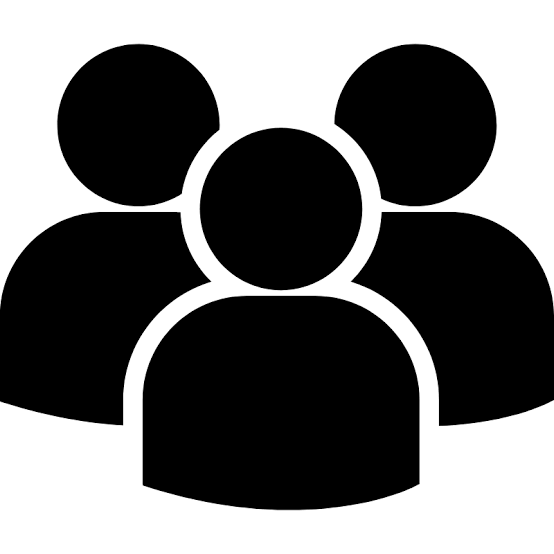
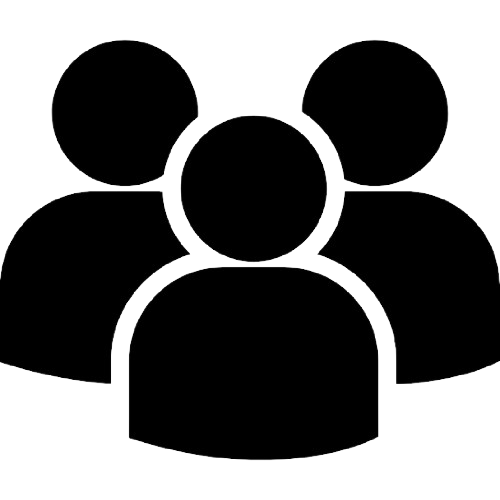
terms images should be in pink color and fix layout

diff --git a/components/home/driveway/TrustPerksBar.tsx b/components/home/driveway/TrustPerksBar.tsx
@@ -26,9 +26,17 @@ const TrustPerksBar = () => {
       <div className="mx-auto max-w-[1480px] px-6 sm:px-12 xl:px-16">
         <div className="grid grid-cols-2 gap-6 lg:grid-cols-4 lg:divide-x lg:divide-slate-200">
           {perks.map((perk, index) => (
-            <div key={index} className="flex items-center space-x-3 lg:px-6 first:lg:pl-0 last:lg:pr-0">
-              <div className="flex h-14 w-14 shrink-0 p-1 items-center justify-center rounded-xl bg-slate-100">
-                <img src={perk.icon}/>
+            <div key={index} className="flex flex-col items-center space-x-3 lg:px-6 first:lg:pl-0 last:lg:pr-0">
+              <div className="flex  h-14 w-14 shrink-0 p-1 items-center justify-center rounded-xl">
+                <img
+                  src={perk.icon}
+                  alt=""
+                  className="h-full w-full object-contain"
+                  style={{
+                    filter:
+                      "brightness(0) saturate(100%) invert(34%) sepia(95%) saturate(3637%) hue-rotate(328deg) brightness(101%) contrast(101%)",
+                  }}
+                />
               </div>
               <div>
                 <h4 className="text-base font-bold text-[#131b4d] sm:text-base leading-tight">
